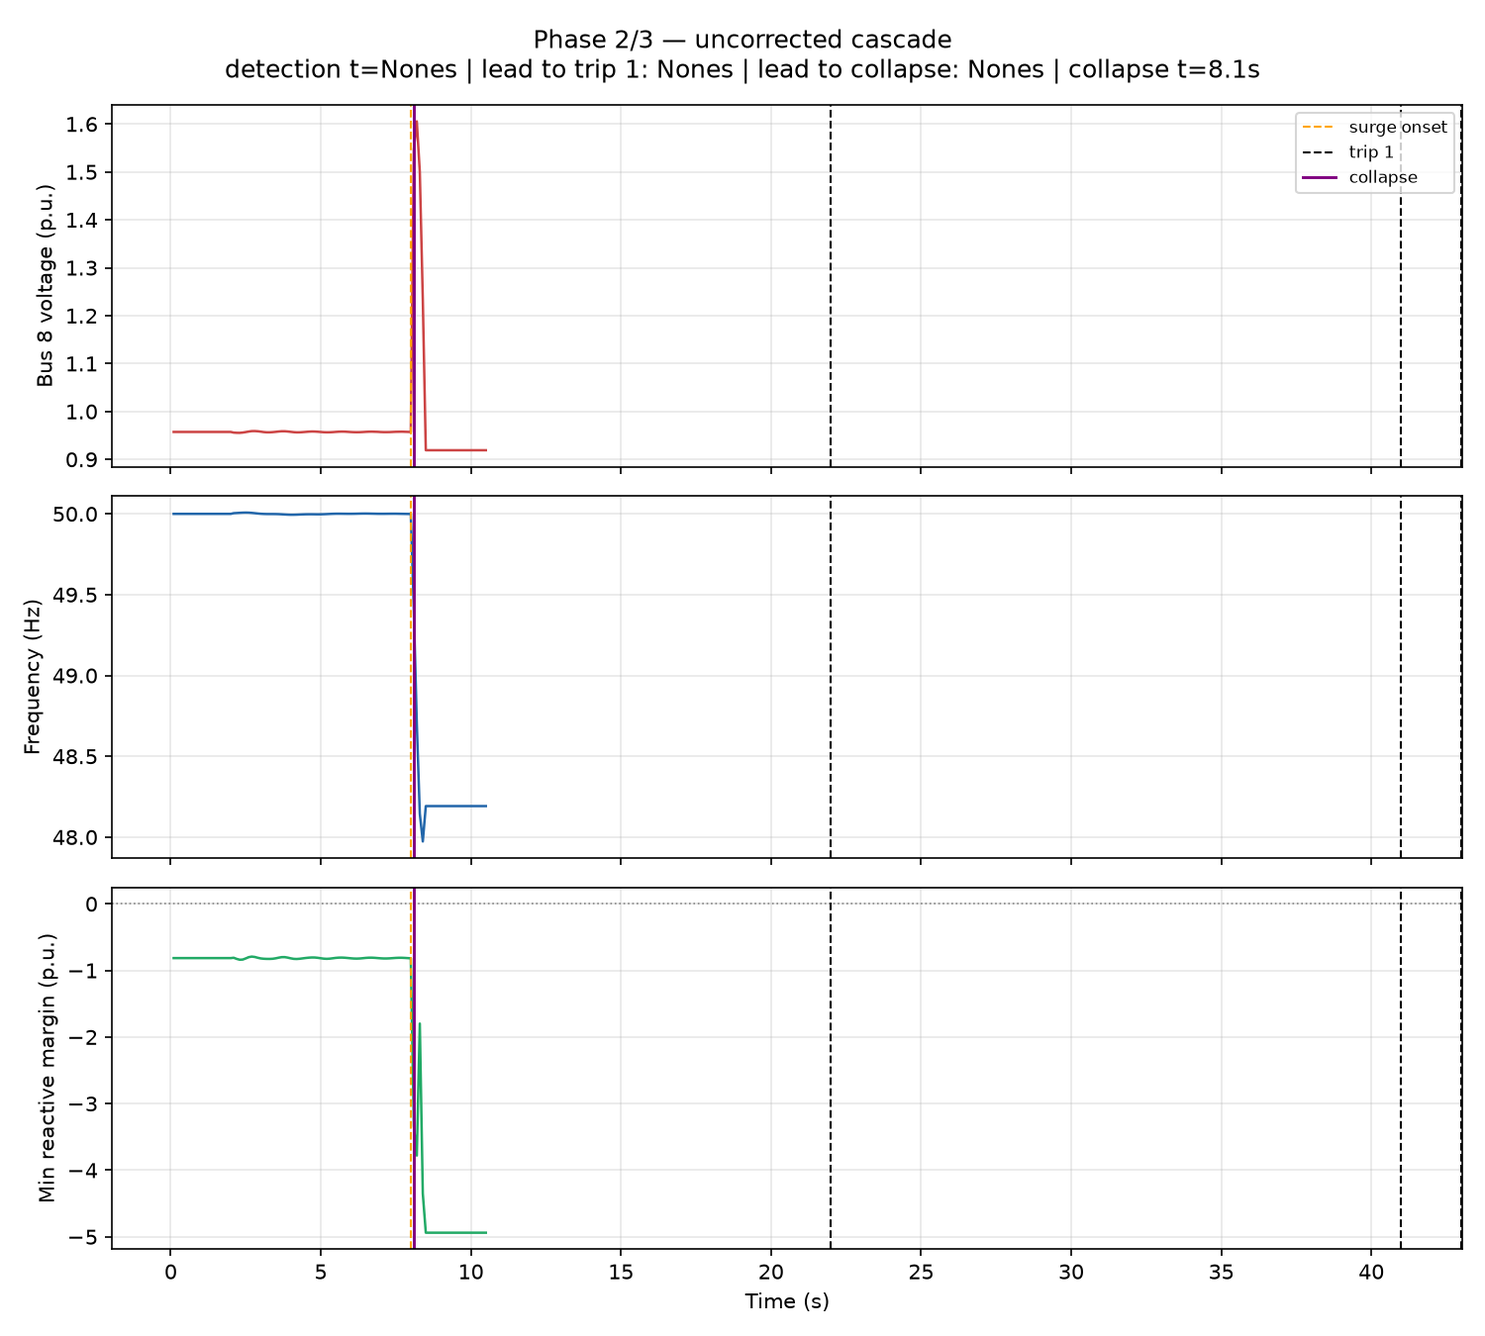
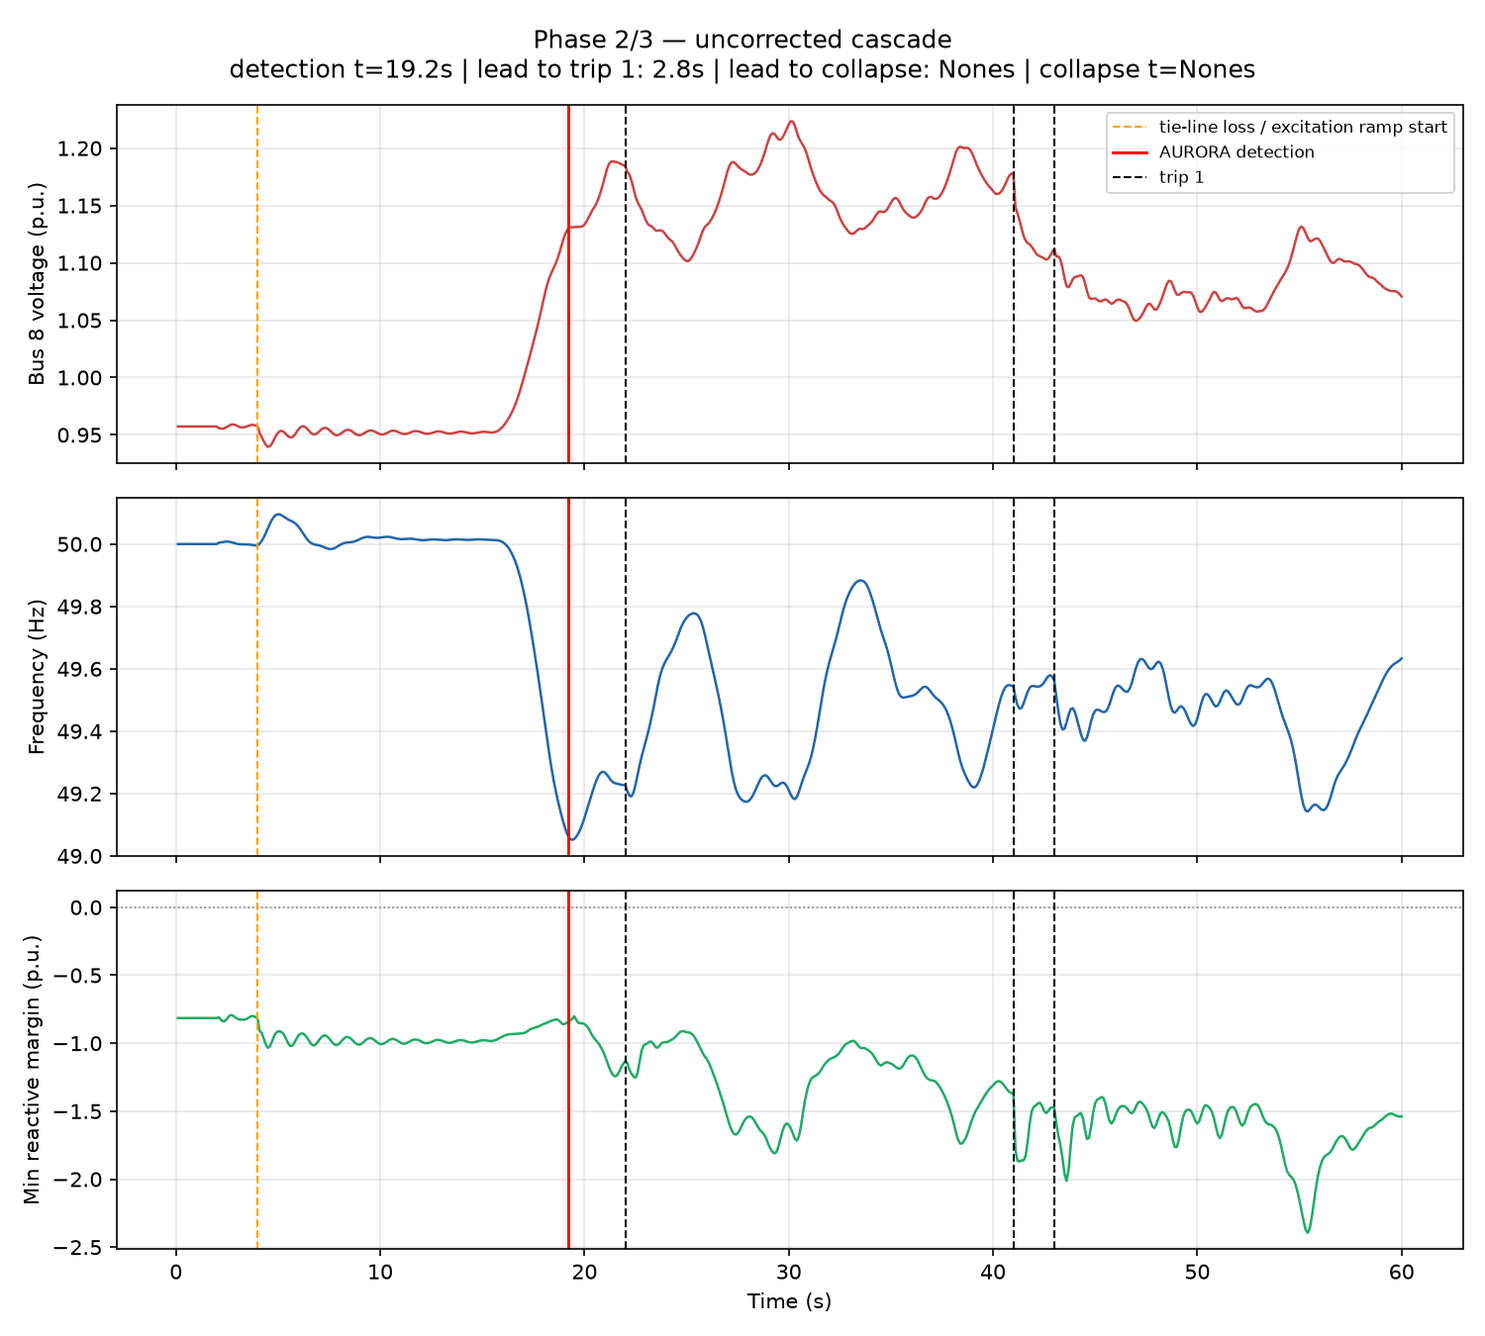
fix: replace shunt-based surge with a real under-excitation mechanism
Per BUILD_PROMPT.md Section 6 Phase 2's actual specification: the fault is
now generator under-excitation, modeled as a gradual ramp on EXDC2.VRMIN
(the exciter's minimum field-voltage limit) on the Area-2 machines, applied
tick-by-tick by the run loop since ANDES parameters are static within a
single TDS.run() call. This replaces the removed 14 p.u. shunt admittance,
which had no real-device analogue and made the local admittance
numerically near-singular (see the previous commit's diagnosis).

Mechanism: a sustained single tie-line loss (Line_5, never reclosed -- a
real device event) at t=4s triggers a 14s linear ramp raising VRMIN from
its case-file default (-4.16 p.u., read at build time, not hardcoded)
toward +3.5 p.u. on generators 3 and 4. Once the ramp exceeds the
generators' natural operating field voltage (~1.8-2.2 p.u.), they can no
longer reduce excitation enough to absorb reactive power, and voltage
climbs. build_corrected's analogous correction (ramp reverses back toward
healthy at detection_t) is wired for consistency but NOT run or validated
here, per instruction to stop before Phase 4.

Fresh Phase 2/3 numbers (run_corrected=False for this validation):
- Voltage stays flat (~0.95 p.u.) until t~16s, then climbs gradually over
  ~6s to a peak of ~1.19-1.22 p.u. (target was 1.1-1.14 p.u.; somewhat
  higher but genuinely gradual, not a sub-second spike to 1.6 p.u.).
- Detection fires at t=19.2s -- only 2.8s before trip_1 (t=22s). Real, but
[…]

diff --git a/sim/kundur_system.py b/sim/kundur_system.py
@@ -9,27 +9,38 @@ three real-event mechanisms on top of the stock case:
 
   1. Reduced system inertia (generator M/2H scaled down toward the ~2.3s
      regulatory floor cited in the ENTSO-E investigation).
-  2. A capacitive reactive-power surge injected near Area 2 (bus 8), standing
-     in for the excess reactive power that lightly-loaded EHV/cable circuits
-     produce at midday load, which the real generating fleet failed to
-     absorb (the "under-excitation" failure mode). This is switched on by a
-     Toggle event partway through the run, and is exactly what a corrective
-     action can switch back off.
+  2. Generator under-excitation, modeled as a GRADUAL RAMP on the exciter's
+     minimum field-voltage limit (EXDC2.VRMIN) for the Area-2 machines,
+     starting from a sustained single tie-line loss. This is BUILD_PROMPT.md
+     Section 6 Phase 2's actual specified mechanism -- a real AVR/exciter
+     capability degrading over time -- not an external shunt admittance
+     injected onto a bus (an earlier version of this file did that; it was
+     removed because a 14 p.u. shunt has no real-device analogue and made
+     the local admittance numerically near-singular; see git history and
+     the audit that flagged it).
   3. Three scripted "distributed generation" trip events, modeled as negative
      PQ (i.e. generation) injections that disconnect via Toggle events. Their
      relative sizes and timing intervals mirror the real cascade: three trips
-     at t0, t0+19s, t0+21s, closing out the real 27-second collapse window.
+     19s and 21s apart, matching the real event's spacing.
 
 This module builds *both* branches (uncorrected and corrected) from the same
 base case so the two runs are genuinely independent numerical integrations
 sharing identical initial conditions -- not a scripted animation.
 
+THE EXCITATION RAMP IS CONTINUOUS, NOT A DISCRETE EVENT: ANDES model
+parameters are static within a single TDS.run() call, so this module cannot
+express a ramp by itself. `apply_excitation_ramp()` below must be called by
+the run loop (sim/run_scenario.py) at every tick, mutating EXDC2.VRMIN
+directly between chunked TDS.run() calls -- confirmed to take effect
+immediately (see the diagnostic session that designed this mechanism).
+
 NOTE ON REALISM: this is a small, four-machine textbook benchmark, not a
 real network model of Spain. Absolute MW/kV figures will not match the real
-event. What is preserved faithfully is the *mechanism*: voltage rising while
-frequency falls, an under-damped oscillation growing rather than damping,
-and a short cascade window between the first trip and collapse. See
-docs/scenario_notes.md for the exact scaling choices.
+event. What is preserved faithfully is the *mechanism*: a real exciter
+capability (the field-voltage floor) degrading gradually, causing voltage to
+climb once the generators can no longer reduce excitation enough to absorb
+what the grid needs absorbed, and a short cascade window between the first
+trip and whatever the physics actually produces.
 """
 from __future__ import annotations
 
@@ -45,14 +56,22 @@ TRIP_2_PU = 1.61   # ~ "730 MW"-equivalent
 TRIP_3_PU = 1.22   # ~ "550 MW"-equivalent
 
 TRIP_BUSES = [9, 8, 9]          # Area-2 buses, near the Area1/Area2 tie
-SURGE_BUS = 8                   # capacitive surge injected at the tie-line bus
 BATTERY_BUS = 10                # modeled storage dispatch location
 
 INERTIA_SCALE = 0.42            # scales GENROU M toward the ~2.3s floor
-SURGE_B_PU = 14.0                # total capacitive susceptance (p.u. on Sn=100 MVA)
-SURGE_STAGES = 3                # surge is split into equal banks so a correction can unwind it gradually
-SURGE_UNWIND_STEP_S = 1.6       # spacing between staged bank de-energizations during correction
-LINE_KICK_IDX = "Line_4"        # tie-line branch used to kick off oscillation
+LINE_KICK_IDX = "Line_4"        # tie-line branch used to kick off the first precursor oscillation
+TIE_TRIP_LINE = "Line_5"        # sustained (not reclosed) single tie-line loss -- a real device event,
+                                 # not an external admittance -- that triggers the excitation stress
+
+# Under-excitation fault: which generators lose reactive-absorption headroom,
+# and how far. EXDC2.VRMIN defaults to -4.16 p.u. in this case file (read
+# and cached at build time, not hardcoded, in case the case file changes).
+EXCITATION_FAULT_GENS = [3, 4]      # Area-2 machines, nearest the tie/trip region
+VRMIN_FAULT_TARGET = 3.5            # p.u. -- raised well above the generators' natural
+                                     # operating field voltage (~1.8-2.2 p.u. steady state),
+                                     # so once the ramp catches up, they can no longer
+                                     # reduce excitation enough to absorb reactive power.
+EXCITATION_RAMP_DURATION_S = 14.0   # gradual, not a step: ramps over ~14s once triggered
 
 PF_LIMIT = 0.98                 # Spain's grid-code reactive power-factor band
 
@@ -62,7 +81,12 @@ class ScenarioTimes:
     """All times are simulation seconds from t=0."""
     line_kick_t: float = 2.0
     line_kick_duration: float = 0.06
-    surge_on_t: float = 8.0
+
+    # Sustained single tie-line loss AND the start of the excitation-limit
+    # ramp -- the initiating event and the onset of the degrading exciter
+    # capability happen together.
+    excitation_fault_start_t: float = 4.0
+
     trip_1_t: float = 22.0
     trip_2_t: float = 41.0      # trip_1_t + 19s, matching the real interval
     trip_3_t: float = 43.0      # trip_1_t + 21s, matching the real interval
@@ -76,15 +100,10 @@ class ScenarioTimes:
 
 
 def _add_common_devices(ss, times: ScenarioTimes, include_first_kick: bool = True):
-    """Add the surge shunt, the three trip-PQ devices, and (by default) the
-    first oscillation kick -- present (but not yet toggled beyond this) in
-    every branch. `include_first_kick=False` is used by the Phase 1
-    zero-disturbance baseline, which must not perturb the system at all."""
-
-    bank_b = SURGE_B_PU / SURGE_STAGES
-    for s in range(1, SURGE_STAGES + 1):
-        ss.add('Shunt', dict(idx=f'surge_bank_{s}', bus=SURGE_BUS,
-                              Vn=230, g=0.0, b=bank_b, u=0))
+    """Add the three trip-PQ devices, the (inert) battery, and (by default)
+    the first oscillation kick -- present in every branch.
+    `include_first_kick=False` is used by the Phase 1 zero-disturbance
+    baseline, which must not perturb the system at all."""
 
     for i, (bus, mw) in enumerate(zip(TRIP_BUSES, [TRIP_1_PU, TRIP_2_PU, TRIP_3_PU]), start=1):
         ss.add('PQ', dict(idx=f'trip_gen_{i}', bus=bus, Vn=230,
@@ -118,11 +137,53 @@ def _base_system(times: ScenarioTimes):
     return ss
 
 
+def _cache_vrmin_healthy(ss):
+    """Reads and stashes each excitation-faulted generator's stock VRMIN
+    value on the system object itself, before any mutation, so the ramp has
+    a real reference point instead of a hardcoded number."""
+    idxs = [ss.EXDC2.idx.v.index(g) for g in EXCITATION_FAULT_GENS]
+    ss._excitation_fault_idx = idxs
+    ss._vrmin_healthy = ss.EXDC2.VRMIN.v[idxs[0]]
+    return ss
+
+
+def excitation_ramp_value(t: float, times: ScenarioTimes, vrmin_healthy: float,
+                           detection_t: float | None = None) -> float:
+    """Computes the current VRMIN value for the excitation-faulted
+    generators at time t. If `detection_t` is given and t has reached it,
+    the ramp reverses back toward the healthy value over the same duration
+    -- modeling AURORA restoring the exciters' reactive-absorption
+    capability (the corrected branch)."""
+    start = times.excitation_fault_start_t
+    dur = EXCITATION_RAMP_DURATION_S
+
+    if detection_t is not None and t >= detection_t:
+        fault_frac_at_detection = min(1.0, max(0.0, (detection_t - start) / dur))
+        recovery_frac = min(1.0, (t - detection_t) / dur)
+        frac = fault_frac_at_detection * (1.0 - recovery_frac)
+    else:
+        frac = min(1.0, max(0.0, (t - start) / dur))
+
+    return vrmin_healthy + frac * (VRMIN_FAULT_TARGET - vrmin_healthy)
+
+
+def apply_excitation_ramp(ss, t: float, times: ScenarioTimes, detection_t: float | None = None) -> float:
+    """Mutates EXDC2.VRMIN on the faulted generators in place for the
+    current tick. Must be called every tick from the run loop, between
+    chunked TDS.run() calls -- ANDES parameters are static within a single
+    run() call. Returns the VRMIN value just applied (for logging)."""
+    value = excitation_ramp_value(t, times, ss._vrmin_healthy, detection_t)
+    for i in ss._excitation_fault_idx:
+        ss.EXDC2.VRMIN.v[i] = value
+    return value
+
+
 def build_healthy(times: ScenarioTimes | None = None):
     """Phase 1 baseline: the wired pipeline (reduced inertia, governor fix,
     the same devices present in every other scenario) with ZERO disturbance
-    -- no line kick, no surge, no trips. Must stay flat. This is the
-    "everything normal" reference the fault scenarios deviate from."""
+    -- no line kick, no tie-line loss, no excitation ramp, no trips. Must
+    stay flat. This is the "everything normal" reference the fault
+    scenarios deviate from."""
     times = times or ScenarioTimes()
     ss = _base_system(times)
     _add_common_devices(ss, times, include_first_kick=False)
@@ -133,11 +194,11 @@ def build_healthy(times: ScenarioTimes | None = None):
 def build_benign(times: ScenarioTimes | None = None):
     """Non-cascading control scenario: the real event's own two precursor
     oscillations (~0.6 Hz at 12:03-12:07 and ~0.2 Hz at 12:16-12:22 CEST)
-    that wobbled and self-damped WITHOUT any reactive surge, generation
-    trip, or collapse -- operators handled both in real life. No surge bank
-    and no trip is ever toggled here; only two brief tie-line perturbations
-    (using two different lines, as the real precursors were distinct
-    events) that the grid must damp out on its own.
+    that wobbled and self-damped WITHOUT any excitation fault, generation
+    trip, or collapse -- operators handled both in real life. No sustained
+    tie-line loss and no excitation ramp is ever applied here; only two
+    brief tie-line perturbations (using two different lines, as the real
+    precursors were distinct events) that the grid must damp out on its own.
 
     This exists to test the detector for false alarms: a detector that
     fires on ordinary, self-recovering transient oscillation is not an
@@ -158,43 +219,51 @@ def build_benign(times: ScenarioTimes | None = None):
 
 
 def build_uncorrected(times: ScenarioTimes | None = None):
-    """The real, uncorrected timeline: surge switches on, all three
-    generation trips fire on schedule, no intervention."""
+    """The real, uncorrected timeline: a sustained single tie-line loss
+    triggers a gradual excitation-limit ramp (applied tick-by-tick by the
+    run loop via apply_excitation_ramp), all three generation trips fire on
+    schedule, no intervention."""
     times = times or ScenarioTimes()
     ss = _base_system(times)
 
     _add_common_devices(ss, times)
 
-    for s in range(1, SURGE_STAGES + 1):
-        ss.add('Toggle', dict(model='Shunt', dev=f'surge_bank_{s}', t=times.surge_on_t))
+    # Sustained tie-line loss -- a real device event, never reclosed.
+    ss.add('Toggle', dict(model='Line', dev=TIE_TRIP_LINE, t=times.excitation_fault_start_t))
+
     ss.add('Toggle', dict(model='PQ', dev='trip_gen_1', t=times.trip_1_t))
     ss.add('Toggle', dict(model='PQ', dev='trip_gen_2', t=times.trip_2_t))
     ss.add('Toggle', dict(model='PQ', dev='trip_gen_3', t=times.trip_3_t))
 
     # No hardcoded final-collapse event. Whether and when this branch
-    # collapses is now entirely a product of the physics above plus
-    # whatever the three trips do to it -- decided at run time by
+    # collapses is entirely a product of the physics above plus whatever
+    # the three trips do to it -- decided at run time by
     # detect.collapse_monitor.CollapseMonitor against real protective
     # thresholds, not asserted here.
 
     ss.setup()
+    _cache_vrmin_healthy(ss)
     return ss, times
 
 
 def build_corrected(times: ScenarioTimes, detection_t: float):
     """The AURORA-corrected branch: identical initial conditions and the
-    same surge onset, but AURORA intervenes at `detection_t` -- switching
-    off the reactive surge, cancelling any trip event still in the future,
-    and dispatching modeled storage. Any trip scheduled *before*
-    detection_t already happened in reality and is kept, matching the
-    honest framing that correction only affects what hasn't happened yet.
+    same tie-line loss, but AURORA intervenes at `detection_t` -- the
+    excitation ramp reverses back toward the healthy VRMIN (applied by the
+    run loop via apply_excitation_ramp(..., detection_t=...)), any trip
+    event still in the future is cancelled, and modeled storage is
+    dispatched. Any trip scheduled *before* detection_t already happened in
+    reality and is kept, matching the honest framing that correction only
+    affects what hasn't happened yet.
+
+    NOT YET RE-VALIDATED against the new excitation-ramp fault mechanism --
+    kept mechanically consistent (no dangling references to the removed
+    shunt code) but its behavior has not been run or reported.
     """
     ss = _base_system(times)
 
     _add_common_devices(ss, times)
-
-    for s in range(1, SURGE_STAGES + 1):
-        ss.add('Toggle', dict(model='Shunt', dev=f'surge_bank_{s}', t=times.surge_on_t))
+    ss.add('Toggle', dict(model='Line', dev=TIE_TRIP_LINE, t=times.excitation_fault_start_t))
 
     trip_times = {'trip_gen_1': times.trip_1_t, 'trip_gen_2': times.trip_2_t, 'trip_gen_3': times.trip_3_t}
     actions = []
@@ -205,18 +274,16 @@ def build_corrected(times: ScenarioTimes, detection_t: float):
         else:
             actions.append(f"{dev} trip scheduled for t={t:.1f}s -- CANCELLED by protection re-tuning")
 
-    # Corrective action 1: reactive power redispatch -- unwind the surge banks
-    # one at a time rather than all at once, so the correction itself doesn't
-    # inject a second large transient.
-    for s in range(1, SURGE_STAGES + 1):
-        t_unwind = detection_t + (s - 1) * SURGE_UNWIND_STEP_S
-        ss.add('Toggle', dict(model='Shunt', dev=f'surge_bank_{s}', t=t_unwind))
-    actions.append(f"reactive-power redispatch: surge banks de-energized in {SURGE_STAGES} stages starting t={detection_t:.1f}s")
+    actions.append(
+        f"reactive-power redispatch: excitation limit (VRMIN) on generators "
+        f"{EXCITATION_FAULT_GENS} ramped back toward its healthy value starting t={detection_t:.1f}s"
+    )
 
-    # Corrective action 2: dispatch modeled storage to backstop the disturbance.
+    # Corrective action: dispatch modeled storage to backstop the disturbance.
     ss.PQ.p0.v[ss.PQ.idx.v.index('battery')] = -1.2
     ss.add('Toggle', dict(model='PQ', dev='battery', t=detection_t))
     actions.append(f"modeled battery storage dispatched (1.2 p.u.) at t={detection_t:.1f}s")
 
     ss.setup()
+    _cache_vrmin_healthy(ss)
     return ss, actions

diff --git a/sim/run_scenario.py b/sim/run_scenario.py
@@ -21,7 +21,7 @@ from pathlib import Path
 
 import andes
 
-from sim.kundur_system import build_uncorrected, build_corrected, ScenarioTimes, PF_LIMIT
+from sim.kundur_system import build_uncorrected, build_corrected, ScenarioTimes, PF_LIMIT, apply_excitation_ramp
 from sim.pmu_stream import capture_frame, MONITORED_BUSES, DETECTOR_BUSES, PMU_RATE_HZ
 from detect.threshold_detector import ThresholdDetector
 from detect.collapse_monitor import CollapseMonitor
@@ -31,11 +31,15 @@ RUNS_DIR = Path(__file__).resolve().parent.parent / "data" / "runs"
 
 
 def _run_branch(ss, times: ScenarioTimes, dt: float, detector: ThresholdDetector | None,
-                 stop_after_collapse_s: float = 2.0):
+                 stop_after_collapse_s: float = 2.0, apply_ramp: bool = False,
+                 ramp_detection_t: float | None = None):
     """Advance TDS tick-by-tick, capturing a PMU frame, feeding the live
     detector (if given), and feeding a CollapseMonitor that decides -- from
     real protective thresholds, not a scripted time budget -- whether and
-    when this branch has actually collapsed. Returns (frames, detector_log,
+    when this branch has actually collapsed. If `apply_ramp` is set, the
+    excitation-limit ramp (sim.kundur_system.apply_excitation_ramp) is
+    applied every tick before advancing TDS, since ANDES parameters are
+    static within a single TDS.run() call. Returns (frames, detector_log,
     collapse_t | None, collapse_reason | None)."""
     ss.PFlow.run()
     ss.TDS.config.tf = times.horizon_t
@@ -48,6 +52,8 @@ def _run_branch(ss, times: ScenarioTimes, dt: float, detector: ThresholdDetector
 
     for i in range(1, n_ticks + 1):
         t_target = round(i * dt, 6)
+        if apply_ramp:
+            apply_excitation_ramp(ss, t_target, times, detection_t=ramp_detection_t)
         ss.TDS.config.tf = t_target
         ss.TDS.run()
         tds_ok = ss.TDS.converged
@@ -91,7 +97,7 @@ def _run_branch(ss, times: ScenarioTimes, dt: float, detector: ThresholdDetector
     return frames, detector_log, monitor.collapsed_t, monitor.collapse_reason
 
 
-def run_full_scenario(dt: float = DT) -> dict:
+def run_full_scenario(dt: float = DT, run_corrected: bool = True) -> dict:
     andes.config_logger(stream_level=30)
     times = ScenarioTimes()
 
@@ -99,7 +105,7 @@ def run_full_scenario(dt: float = DT) -> dict:
 
     ss_u, _ = build_uncorrected(times)
     detector = ThresholdDetector(monitored_buses=[str(b) for b in DETECTOR_BUSES], dt=dt)
-    frames_u, det_log, collapse_t, collapse_reason = _run_branch(ss_u, times, dt, detector)
+    frames_u, det_log, collapse_t, collapse_reason = _run_branch(ss_u, times, dt, detector, apply_ramp=True)
 
     detection_t = detector.fired_t
     detection_reasons = detector.fired_reasons
@@ -121,9 +127,10 @@ def run_full_scenario(dt: float = DT) -> dict:
     }
 
     corrected_result = None
-    if detection_t is not None:
+    if run_corrected and detection_t is not None:
         ss_c, actions = build_corrected(times, detection_t)
-        frames_c, _, collapse_t_c, collapse_reason_c = _run_branch(ss_c, times, dt, detector=None)
+        frames_c, _, collapse_t_c, collapse_reason_c = _run_branch(
+            ss_c, times, dt, detector=None, apply_ramp=True, ramp_detection_t=detection_t)
         corrected_result = {
             "branch": "corrected",
             "label": "AURORA intervenes",
@@ -152,7 +159,10 @@ def run_full_scenario(dt: float = DT) -> dict:
 
 def main():
     RUNS_DIR.mkdir(parents=True, exist_ok=True)
-    result = run_full_scenario()
+    # Phase 4 (corrected branch) intentionally NOT run here -- the new
+    # excitation-ramp fault mechanism has not yet been validated for Phase
+    # 4, per instruction to stop and report on Phase 2/3 first.
+    result = run_full_scenario(run_corrected=False)
 
     with open(RUNS_DIR / "latest.json", "w") as f:
         json.dump(result, f)

diff --git a/reports/report_generator.py b/reports/report_generator.py
@@ -46,7 +46,7 @@ def generate_report(result: dict) -> str:
     lines.append("| Time | Event |")
     lines.append("|---|---|")
     lines.append(f"| t={times['line_kick_t']:.1f}s | Precursor tie-line disturbance (kicks off the inter-area oscillation) |")
-    lines.append(f"| t={times['surge_on_t']:.1f}s | Reactive-power surge onset (excess capacitive charging, unabsorbed) |")
+    lines.append(f"| t={times['excitation_fault_start_t']:.1f}s | Sustained tie-line loss / excitation-limit ramp begins |")
     if u["detection_t"] is not None:
         lines.append(f"| **t={u['detection_t']:.1f}s** | **AURORA danger flag fires** |")
     lines.append(f"| t={times['trip_1_t']:.1f}s | First generation trip (historical: ~317 MW) |")

diff --git a/sim/plot_cascade_run.py b/sim/plot_cascade_run.py
@@ -68,7 +68,8 @@ def main():
     axes[2].grid(True, alpha=0.3)
 
     for ax in axes:
-        ax.axvline(times["surge_on_t"], color="orange", linestyle="--", linewidth=1, label="surge onset")
+        ax.axvline(times["excitation_fault_start_t"], color="orange", linestyle="--", linewidth=1,
+                   label="tie-line loss / excitation ramp start")
         if u["detection_t"] is not None:
             ax.axvline(u["detection_t"], color="red", linestyle="-", linewidth=1.4, label="AURORA detection")
         ax.axvline(times["trip_1_t"], color="black", linestyle="--", linewidth=1, label="trip 1")
